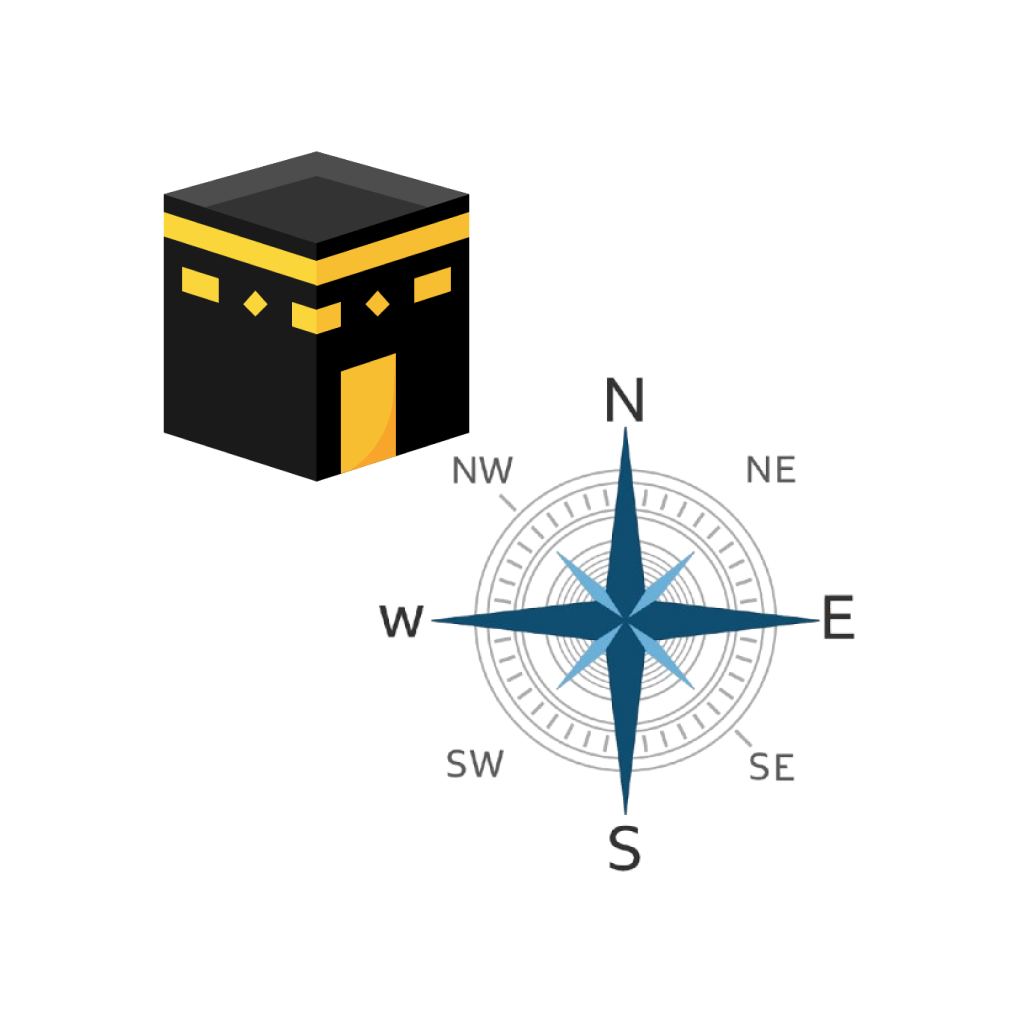
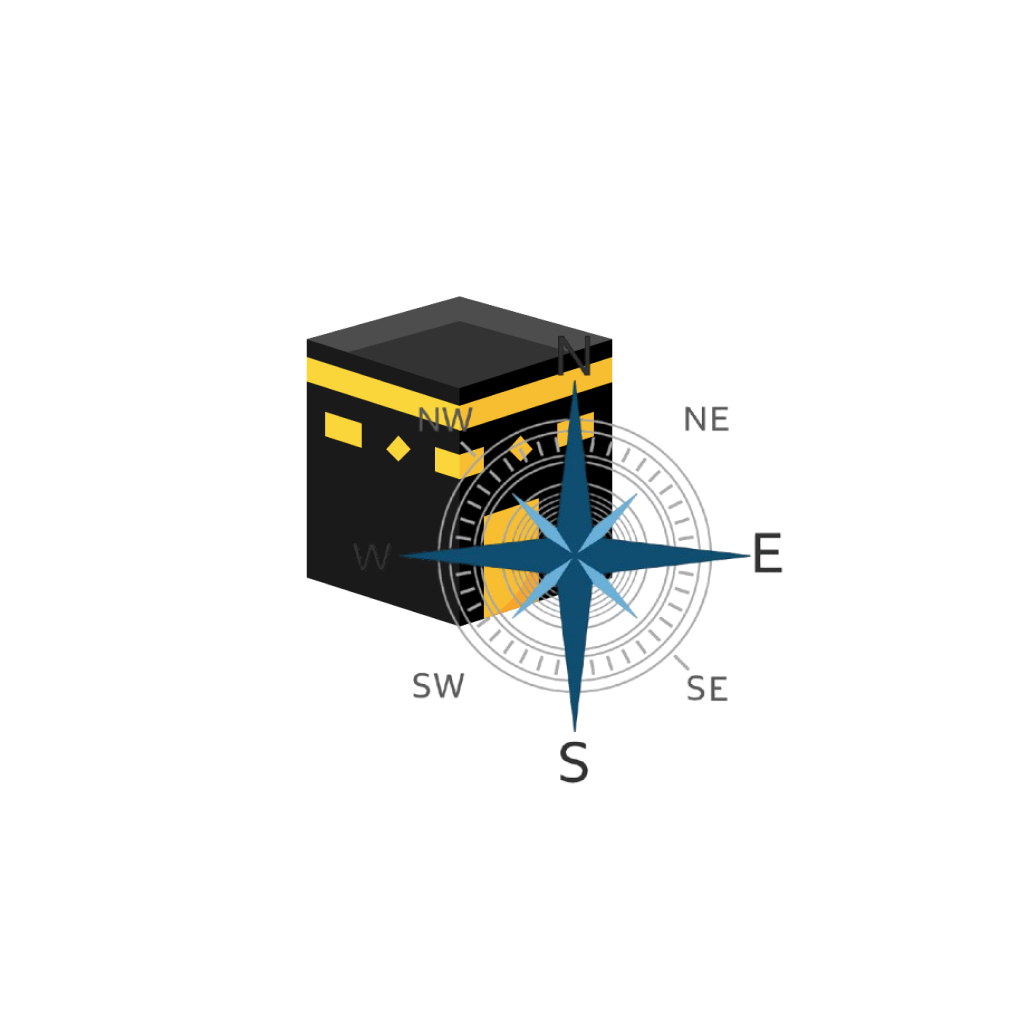
Fixes

diff --git a/components/compassView.js b/components/compassView.js
@@ -6,11 +6,10 @@ import {
   widthPercentageToDP as wp,
   heightPercentageToDP as hp,
 } from "react-native-responsive-screen";
+import { flipAngle, safeAngleValue } from "../utils/heading";
 
 const arrowImage = require("../assets/meccah-arrow.png");
 const compassImage = require("../assets/compass.png");
-
-const flipAngle = (value) => (value && value > 0 ? Math.round(360 - value) : 0);
 
 const CompassView = () => {
   const { northHeading, meccaHeading } = useMeccaHeading();
@@ -19,13 +18,13 @@ const CompassView = () => {
 
   useEffect(() => {
     Animated.timing(arrowRotateValue, {
-      toValue: meccaHeading,
+      toValue: safeAngleValue(meccaHeading),
       duration: settings.animation.animationDelay,
       useNativeDriver: true,
     }).start();
 
     Animated.timing(compassRotateValue, {
-      toValue: flipAngle(northHeading),
+      toValue: safeAngleValue(flipAngle(northHeading)),
       duration: settings.animation.animationDelay,
       useNativeDriver: true,
     }).start();
@@ -54,7 +53,7 @@ const CompassView = () => {
           { transform: [{ rotate: rotateCompass }] },
         ]}
       />
-      <Text style={styles.text}>{Math.round(northHeading)}</Text>
+      <Text style={styles.text}></Text>
     </View>
   );
 };

diff --git a/utils/heading.js b/utils/heading.js
@@ -23,3 +23,9 @@ export const getCardinalDirection = (heading) => {
   const index = Math.round(heading / 45) % 8;
   return directions[index];
 };
+
+export const flipAngle = (value) =>
+  value && value > 0 ? Math.round(360 - value) : 0;
+
+export const safeAngleValue = (value) =>
+  value && value >= 0 && value <= 360 ? value : 0;
